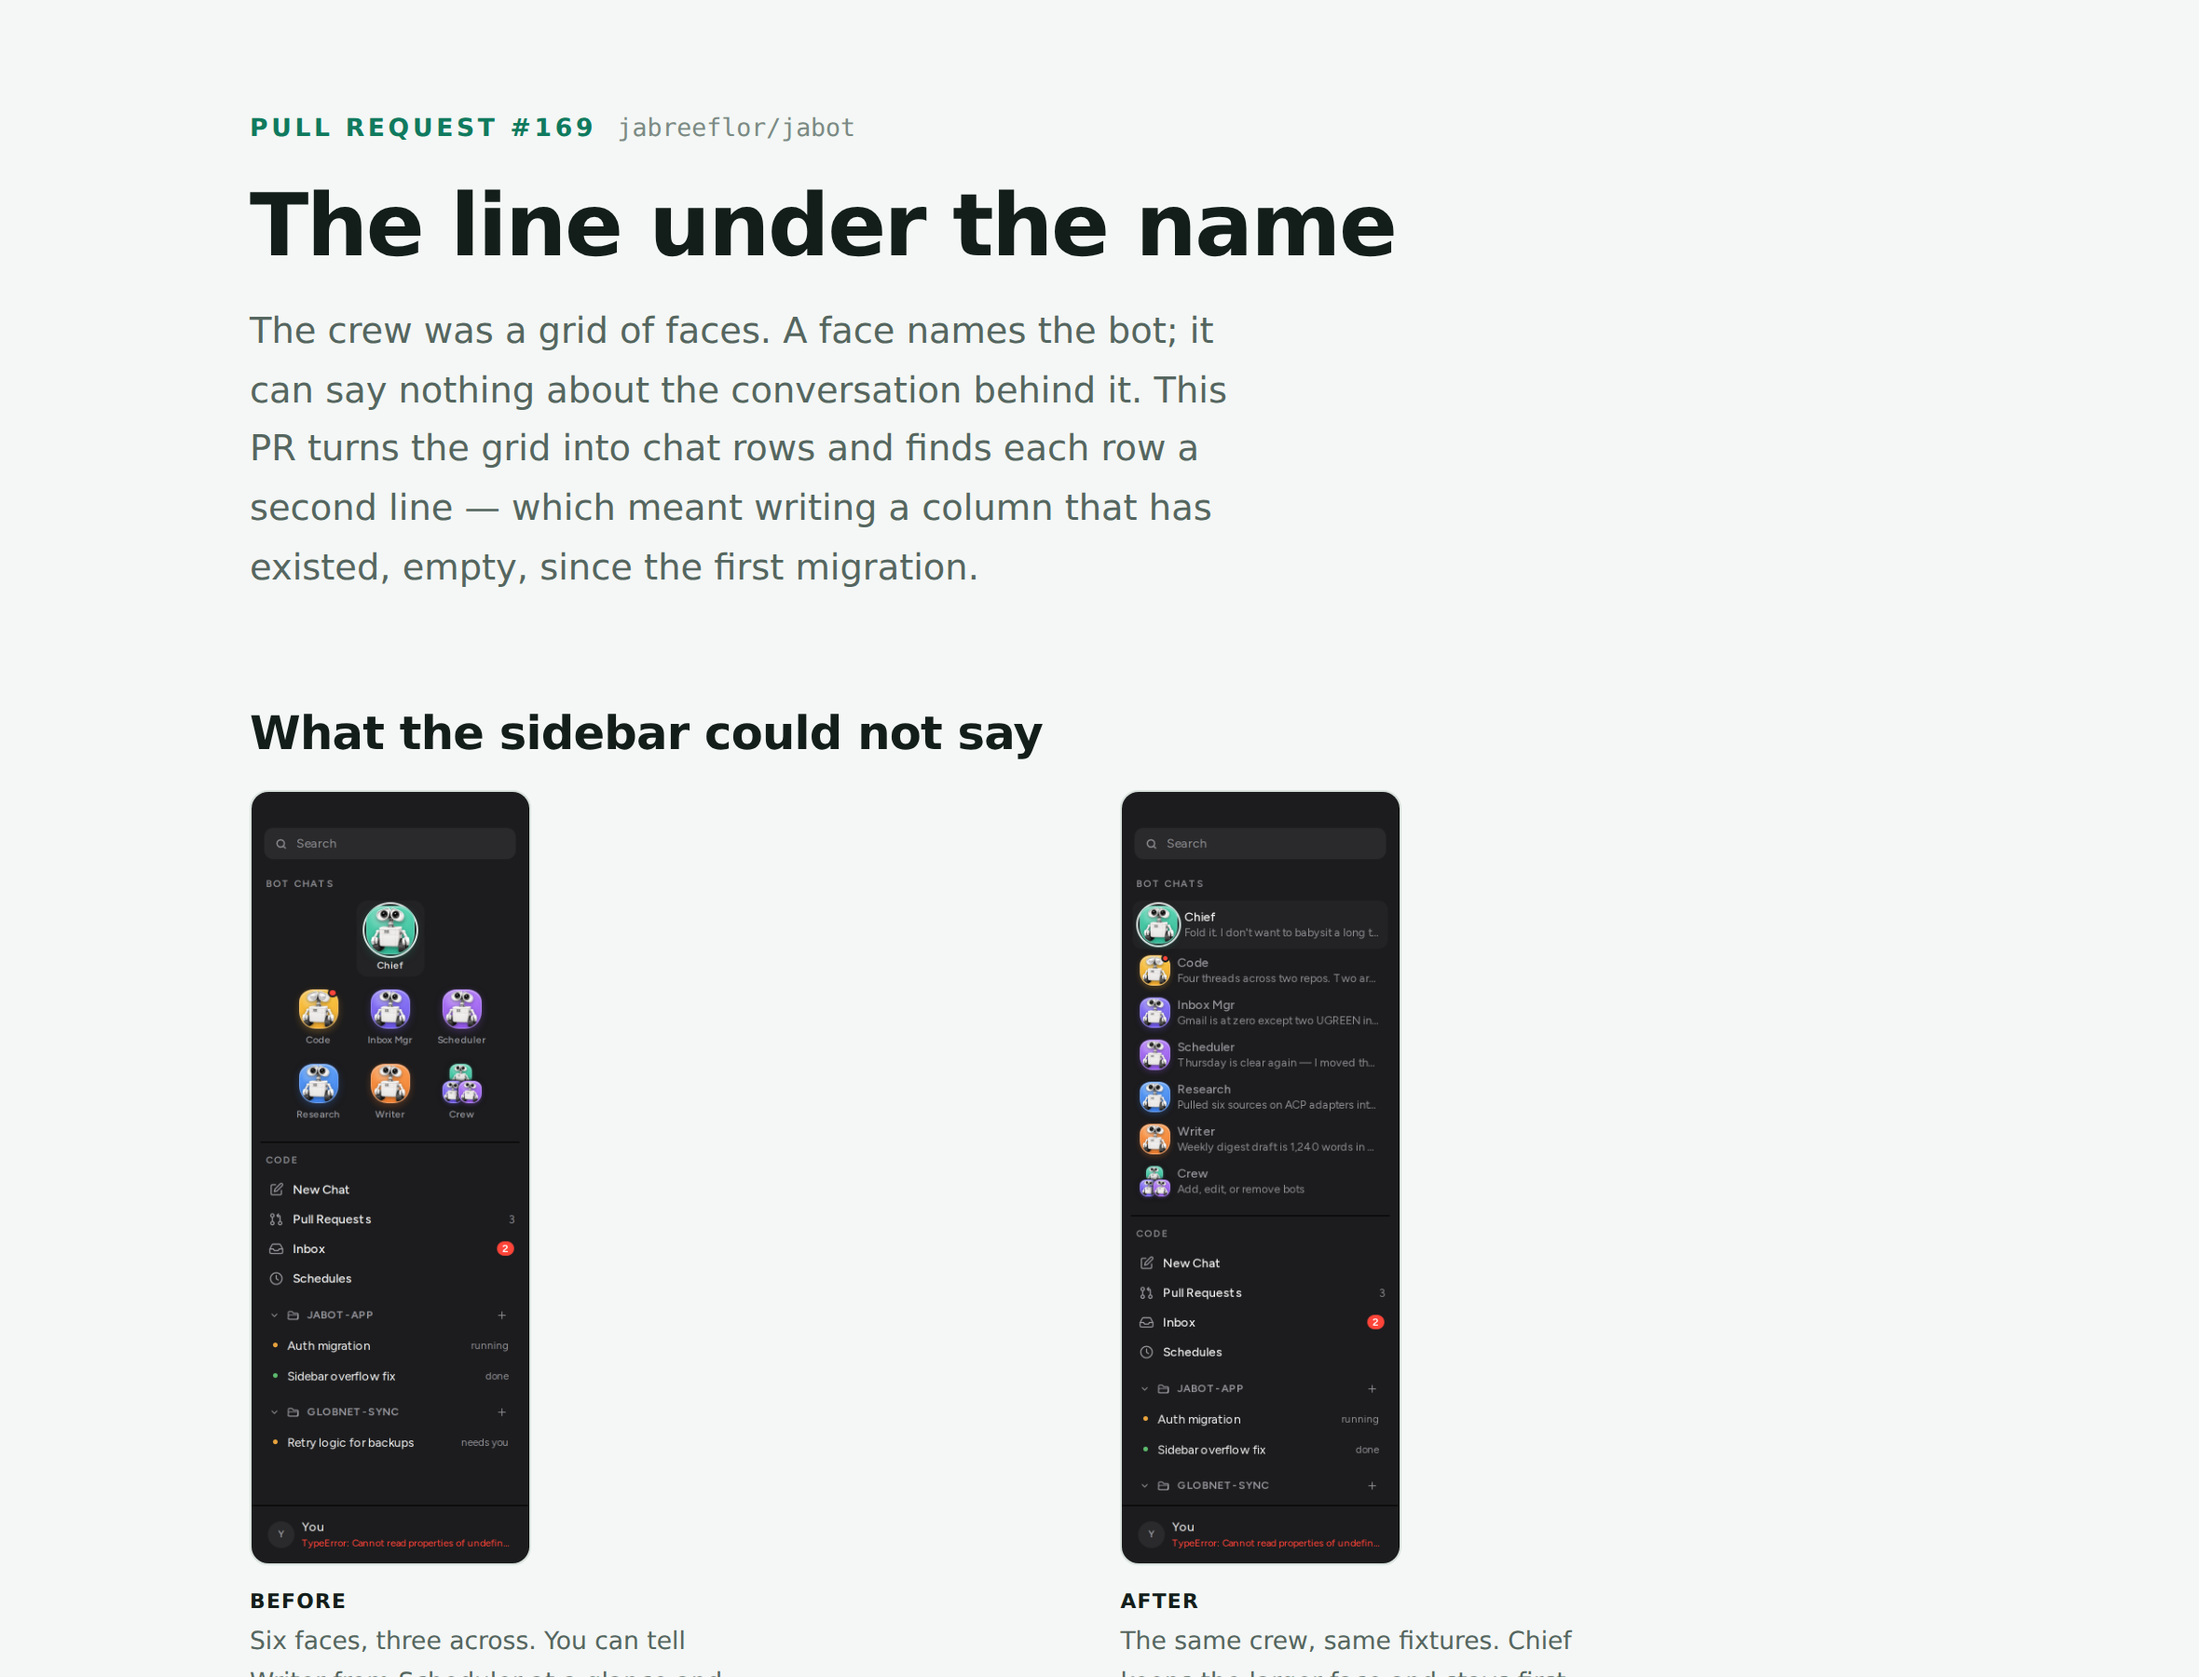
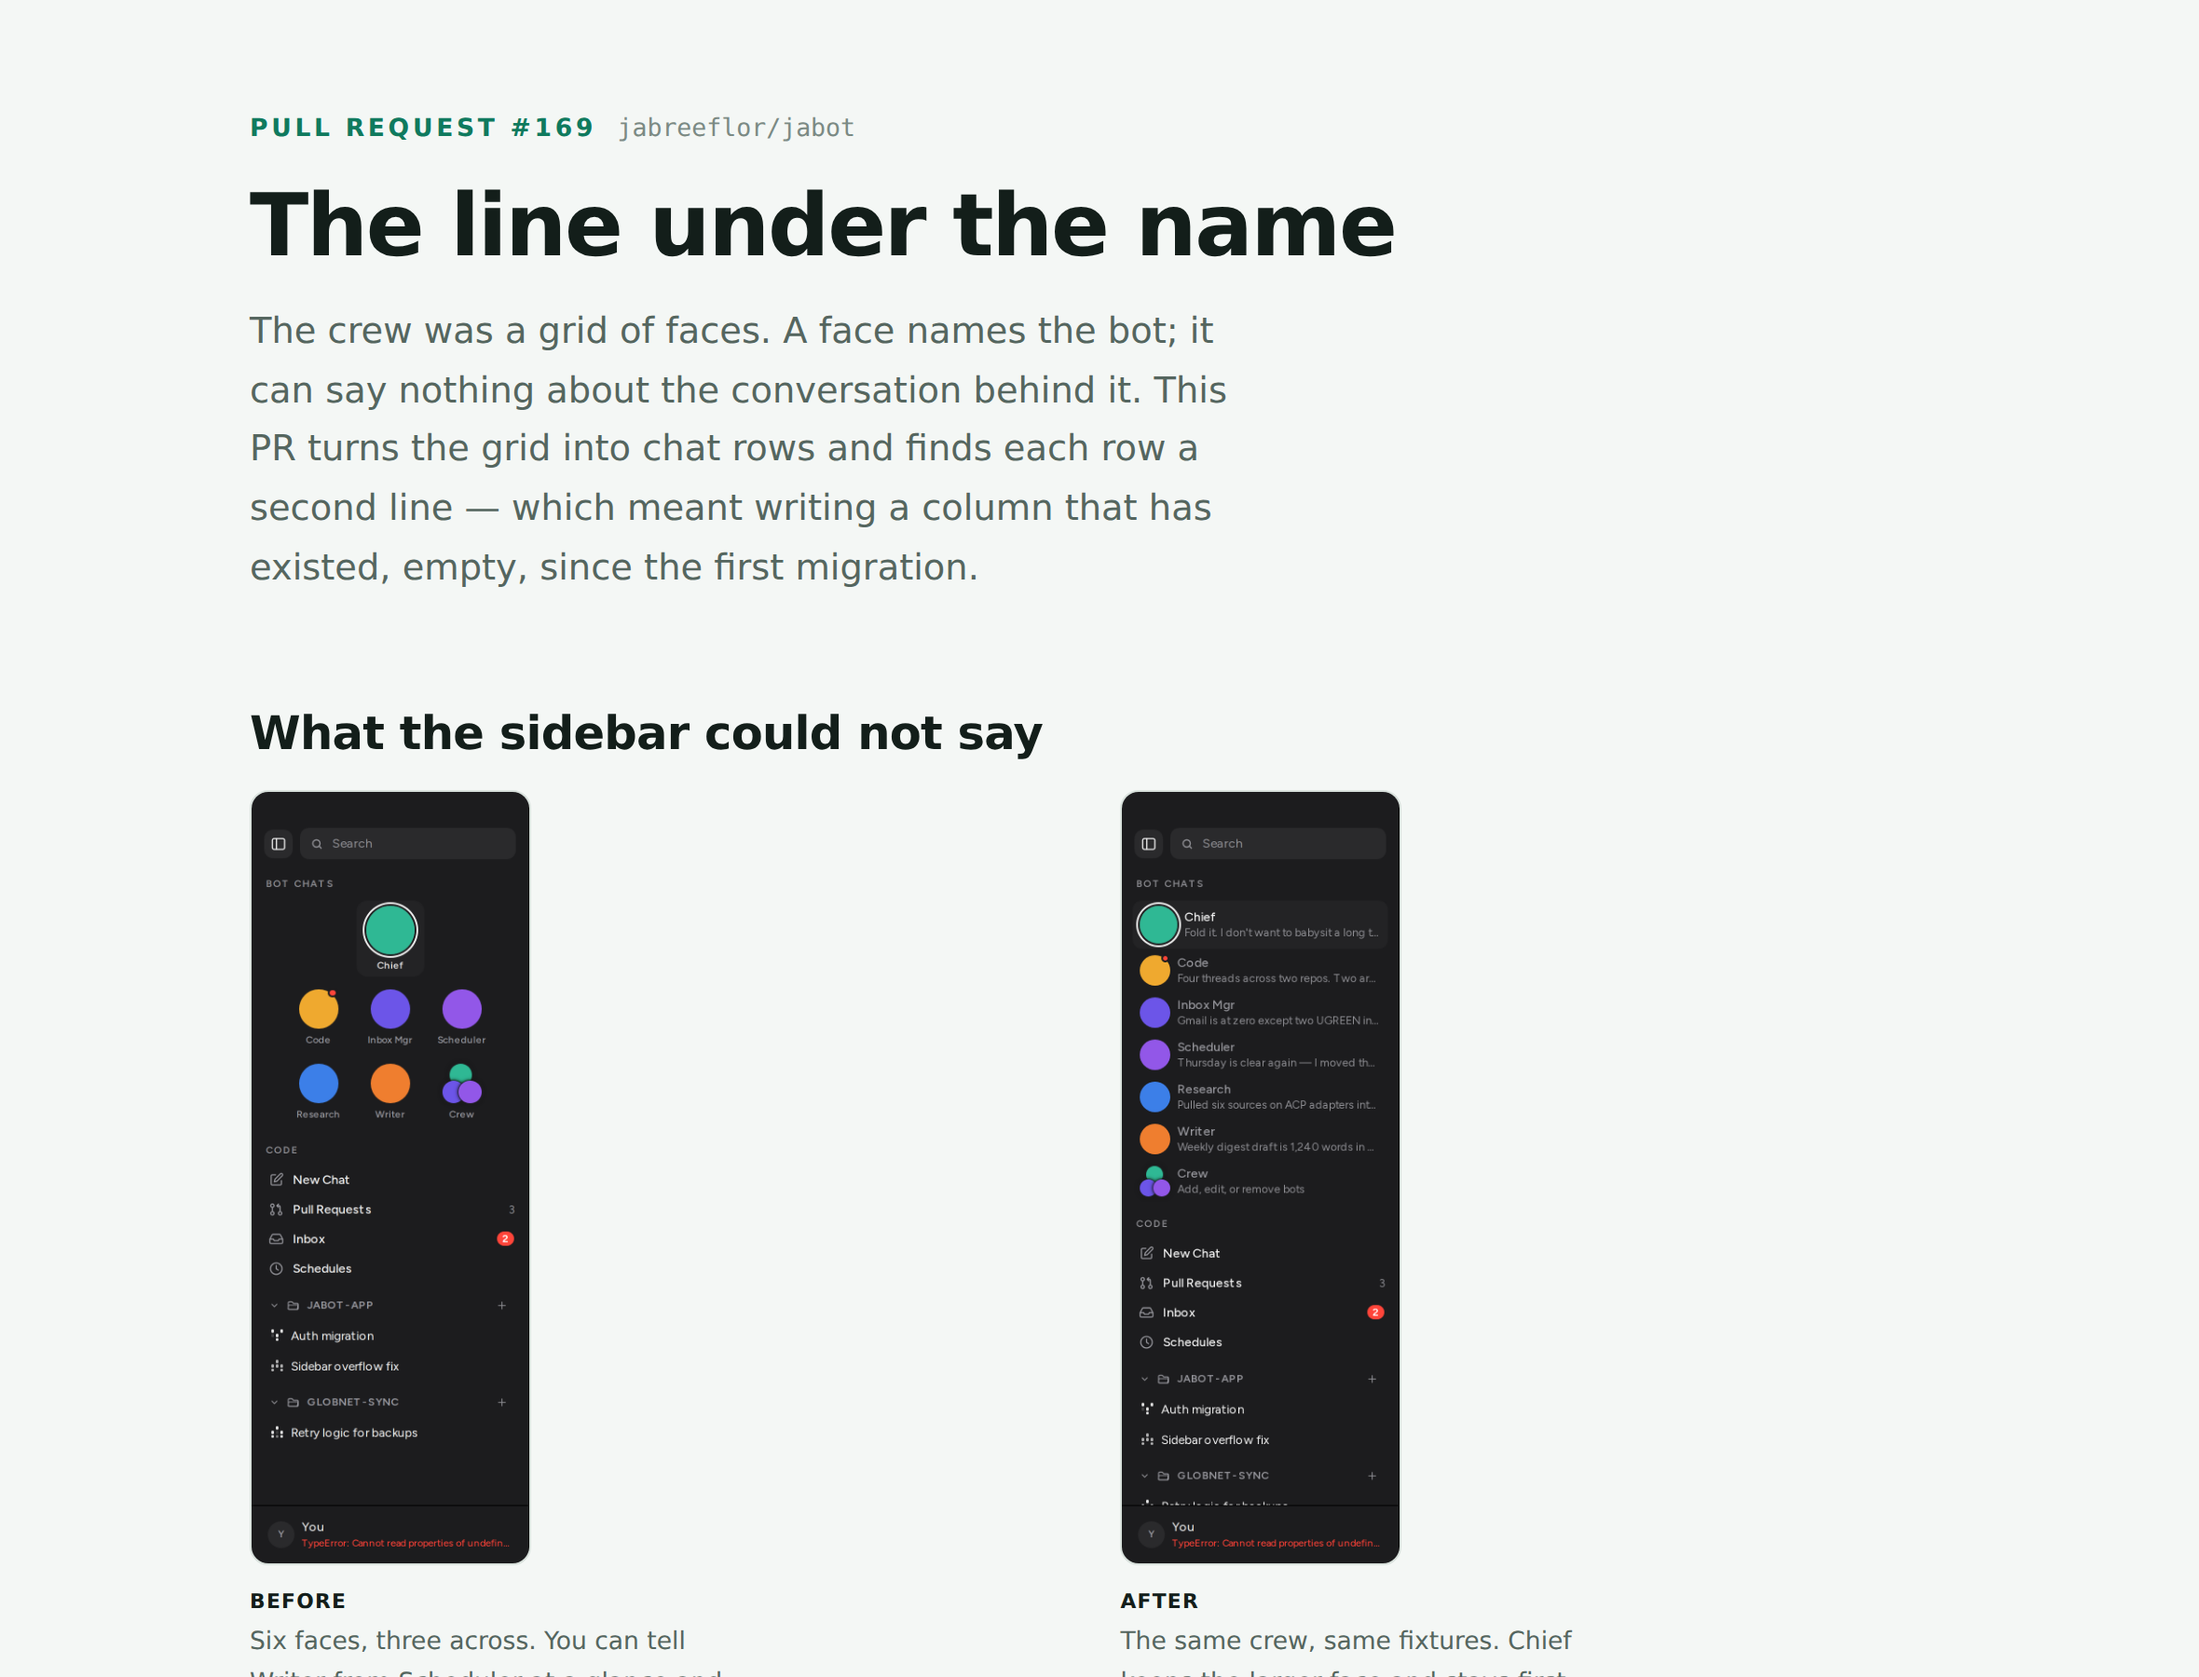
Recapture the bot-chat-row frames on top of merged main
`main` moved under this branch while it was open: solid circular bot icons,
sparkle thread marks, a rail that collapses, Devices folded into Settings,
and no bubble around a bot's replies. The old frames showed the mascot
avatars and the pips, which is a picture of a sidebar that no longer
exists — and a before/after pair is only an argument if both halves are
the same app.

All six are recaptured, the artifact republished with them, and the
selection-ring comment trimmed of the mascot it used to describe.

Claude-Session: https://claude.ai/code/session_01TJrXhK7LRXfVkFLEWzuaEd

diff --git a/docs/img/bot-chat-rows/README.md b/docs/img/bot-chat-rows/README.md
@@ -4,7 +4,10 @@ Evidence for the change that turns the sidebar's crew grid into a list of chat
 rows and gives each row the last thing said in that bot's standing thread.
 
 Every frame is the real `App` in headless Chromium at `deviceScaleFactor: 2`,
-against the production renderer bundle (`npm run build` + `vite preview`).
+against the production renderer bundle (`npm run build` + `vite preview`), and
+all of them were recaptured after `main` was merged in — so they carry the
+solid circular icons, the sparkle thread marks and the collapsing rail that
+landed there while this branch was open.
 
 | file | what it shows |
 | --- | --- |
